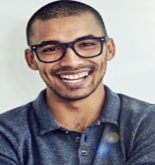
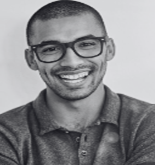
Refactor DiagramOrgTree layout by adjusting CSS classes for better organization and responsiveness. Update styles in arbol.css to accommodate new layout structure and improve visual consistency. Replace outdated images with updated versions for user profiles.

diff --git a/src/styles/arbol.css b/src/styles/arbol.css
@@ -500,11 +500,17 @@
   --holding-org-card-gap: 14px;
   --holding-org-cti-col-w: calc(2 * var(--holding-org-card-w) + var(--holding-org-card-gap));
   --holding-org-cti-col-gap: 10px;
+  --holding-org-cti-cols: 7;
+  --holding-org-cti-block-w: calc(
+    (var(--holding-org-cti-cols) - 1) * var(--holding-org-cti-col-w) +
+    var(--holding-org-card-w) +
+    (var(--holding-org-cti-cols) - 1) * var(--holding-org-cti-col-gap)
+  );
   display: block;
   position: relative;
   box-sizing: border-box;
   padding: 8px 8px 20px;
-  width: max(100%, 2280px);
+  width: max(100%, var(--holding-org-cti-block-w));
   max-width: none;
 }
 
@@ -656,7 +662,7 @@
   max-width: 96px !important;
 }
 
-/* CTI: bloque al ancho exacto de las 5 columnas (franja azul = mismo borde) */
+/* CTI: bloque al ancho exacto de las 7 columnas (franja azul = Tecnología → SAP) */
 .holding-org__cti-block {
   display: flex;
   flex-direction: column;
@@ -683,7 +689,7 @@
   max-width: 100%;
 }
 
-/* CTI: 5 áreas en fila; IA/Infra y Comercial/SAP apilados en su columna */
+/* CTI: 7 áreas en una fila */
 .holding-org__cti-panel {
   gap: 8px;
 }
@@ -705,7 +711,10 @@
 }
 
 .holding-org__cti-row--primary {
-  grid-template-columns: repeat(5, var(--holding-org-cti-col-w));
+  grid-template-columns:
+    repeat(4, var(--holding-org-cti-col-w))
+    var(--holding-org-card-w)
+    repeat(2, var(--holding-org-cti-col-w));
   column-gap: var(--holding-org-cti-col-gap);
   justify-content: center;
 }
@@ -713,6 +722,15 @@
 .holding-org__cti-block .holding-org__cti-cell {
   width: var(--holding-org-cti-col-w);
   max-width: var(--holding-org-cti-col-w);
+}
+
+.holding-org__cti-block .holding-org__cti-cell--single {
+  width: var(--holding-org-card-w);
+  max-width: var(--holding-org-card-w);
+}
+
+.holding-org__cti-block .holding-org__cti-cell--single .holding-org__headed-slice--cards-cols-1 {
+  width: var(--holding-org-card-w);
 }
 
 .holding-org__cti-block .holding-org__headed-slice--cards-cols-2 {
@@ -758,8 +776,13 @@
 }
 
 .holding-org .holding-org__cti-matrix .holding-org__cti-card-grid.holding-org__cti-card-grid--single {
-  grid-template-columns: 186px !important;
+  grid-template-columns: var(--holding-org-card-w) !important;
+  width: var(--holding-org-card-w) !important;
   justify-content: center !important;
+}
+
+.holding-org__cti-cell--single .holding-org__cti-cell-title {
+  width: 100%;
 }
 
 .holding-org .holding-org__cti-matrix .holding-org__cti-card-grid.holding-org__cti-card-grid--single > .org-tree-exec-span2 {
@@ -985,6 +1008,21 @@
   }
 
   .holding-org__corporate > .holding-org__panel {
+    width: 100%;
+    max-width: 100%;
+  }
+
+  .holding-org__cti-block {
+    width: 100%;
+    max-width: 100%;
+  }
+
+  .holding-org__cti-block .holding-org__cti-row--primary {
+    width: 100%;
+    grid-template-columns: 1fr;
+  }
+
+  .holding-org__cti-block .holding-org__cti-cell {
     width: 100%;
     max-width: 100%;
   }

diff --git a/src/componentes/DiagramOrgTree.jsx b/src/componentes/DiagramOrgTree.jsx
@@ -272,7 +272,7 @@ const DiagramOrgTree = ({ xy: _xy, min }) => {
                                     </div>
                                 </div>
 
-                                <div className="holding-org__cti-cell holding-org__cti-cell--stacked">
+                                <div className="holding-org__cti-cell">
                                     <div className="holding-org__headed-slice holding-org__headed-slice--cards-cols-2">
                                         <div className="childrens-label-title holding-org__cti-cell-title" style={{ backgroundColor: AREA_IA, textAlign: 'center', boxSizing: 'border-box' }}>
                                             IA / Data - Victum AI
@@ -282,19 +282,20 @@ const DiagramOrgTree = ({ xy: _xy, min }) => {
                                             <UserProfileCard color={AREA_IA} name="Josue Tlaxcoapan" puesto="Ing. Dev. IA" urlPhoto={IA2} onClickCV={() => handleDetails(16)} onClickProfile={() => handleDetails(16, 'IA2.png')} min={min} />
                                         </div>
                                     </div>
-                                    <div className="holding-org__headed-slice holding-org__headed-slice--cards-cols-2">
+                                </div>
+
+                                <div className="holding-org__cti-cell holding-org__cti-cell--single">
+                                    <div className="holding-org__headed-slice holding-org__headed-slice--cards-cols-1">
                                         <div className="childrens-label-title holding-org__cti-cell-title" style={{ backgroundColor: AREA_INFRA, textAlign: 'center', boxSizing: 'border-box' }}>
                                             Infraestructura
                                         </div>
-                                        <div className="org-tree-exec-cards-grid holding-org__cti-card-grid">
-                                            <div className="org-tree-exec-span2" style={{ gridColumn: '1 / 3', display: 'flex', justifyContent: 'center' }}>
-                                                <UserProfileCard color={AREA_INFRA} name="Heber Argumedo" puesto="Ing. CiberSeguridad" urlPhoto={infra1} onClickCV={() => handleDetails(17)} onClickProfile={() => handleDetails(17, 'infra1.png')} min={min} />
-                                            </div>
+                                        <div className="org-tree-exec-cards-grid holding-org__cti-card-grid holding-org__cti-card-grid--single">
+                                            <UserProfileCard color={AREA_INFRA} name="Heber Argumedo" puesto="Ing. CiberSeguridad" urlPhoto={infra1} onClickCV={() => handleDetails(17)} onClickProfile={() => handleDetails(17, 'infra1.png')} min={min} />
                                         </div>
                                     </div>
                                 </div>
 
-                                <div className="holding-org__cti-cell holding-org__cti-cell--stacked">
+                                <div className="holding-org__cti-cell">
                                     <div className="holding-org__headed-slice holding-org__headed-slice--cards-cols-2">
                                         <div className="childrens-label-title holding-org__cti-cell-title" style={{ backgroundColor: AREA_COMERCIAL, textAlign: 'center', boxSizing: 'border-box' }}>
                                             Dirección comercial
@@ -304,6 +305,9 @@ const DiagramOrgTree = ({ xy: _xy, min }) => {
                                             <UserProfileCard color={AREA_COMERCIAL} name="Jaime García Ángel" puesto="Dirección Comercial" urlPhoto={CV_DC1} onClickCV={() => handleDetails(28)} onClickProfile={() => handleDetails(28, 'CV_DC1.png')} min={min} />
                                         </div>
                                     </div>
+                                </div>
+
+                                <div className="holding-org__cti-cell">
                                     <div className="holding-org__headed-slice holding-org__headed-slice--cards-cols-2">
                                         <div className="childrens-label-title holding-org__cti-cell-title" style={{ backgroundColor: AREA_SAP, textAlign: 'center', boxSizing: 'border-box' }}>
                                             SAP